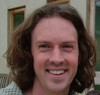
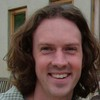
Redo people thumbnails. Fixes #2020.
SVN-Revision: 62554

diff --git a/public_html/beta/users/people.html b/public_html/beta/users/people.html
@@ -141,7 +141,7 @@ http://www.boost.org/development/website_updating.html
                 Kaiser</span></a></li>
 
                 <li><a href="people/vesa_karvonen.html"><img src=
-                "people/vesa_karvonen.jpg" alt="-" class=
+                "people/vesa_karvonen_small.jpg" alt="-" class=
                 "left-inset" /><span class="link">Vesa
                 Karvonen</span></a></li>
 
@@ -240,7 +240,7 @@ http://www.boost.org/development/website_updating.html
                 Turkanis</span></a></li>
 
                 <li><a href="people/daryle_walker.html"><img src=
-                "people/daryle_walker.jpg" alt="-" class=
+                "people/daryle_walker_small.jpg" alt="-" class=
                 "left-inset" /><span class="link">Daryle
                 Walker</span></a></li>
 
